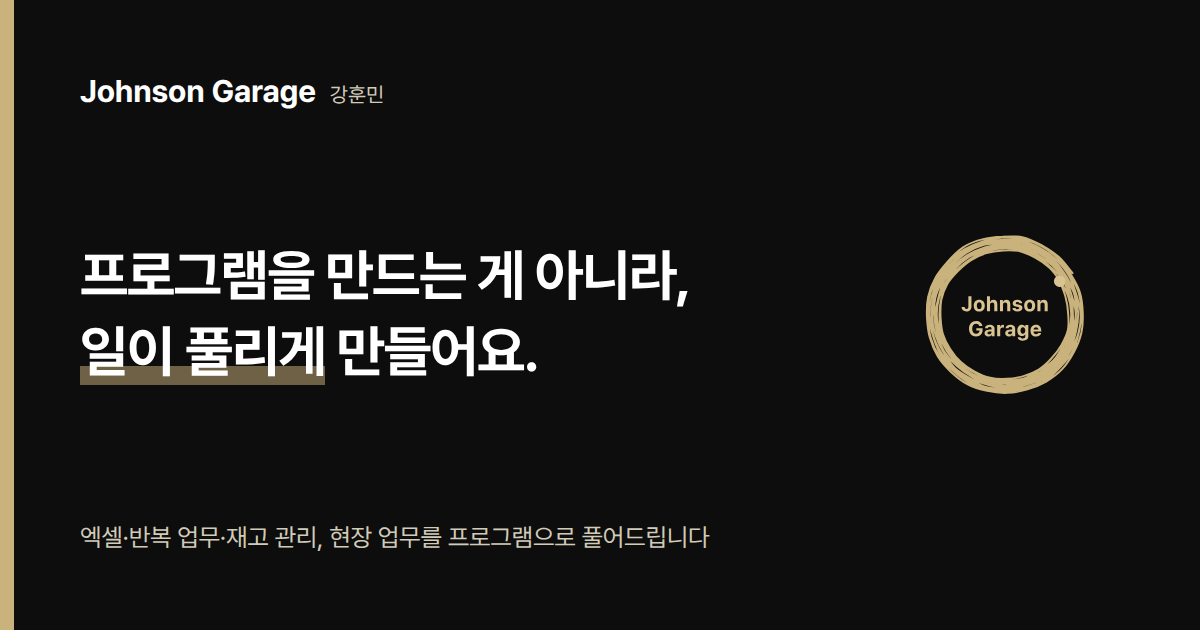
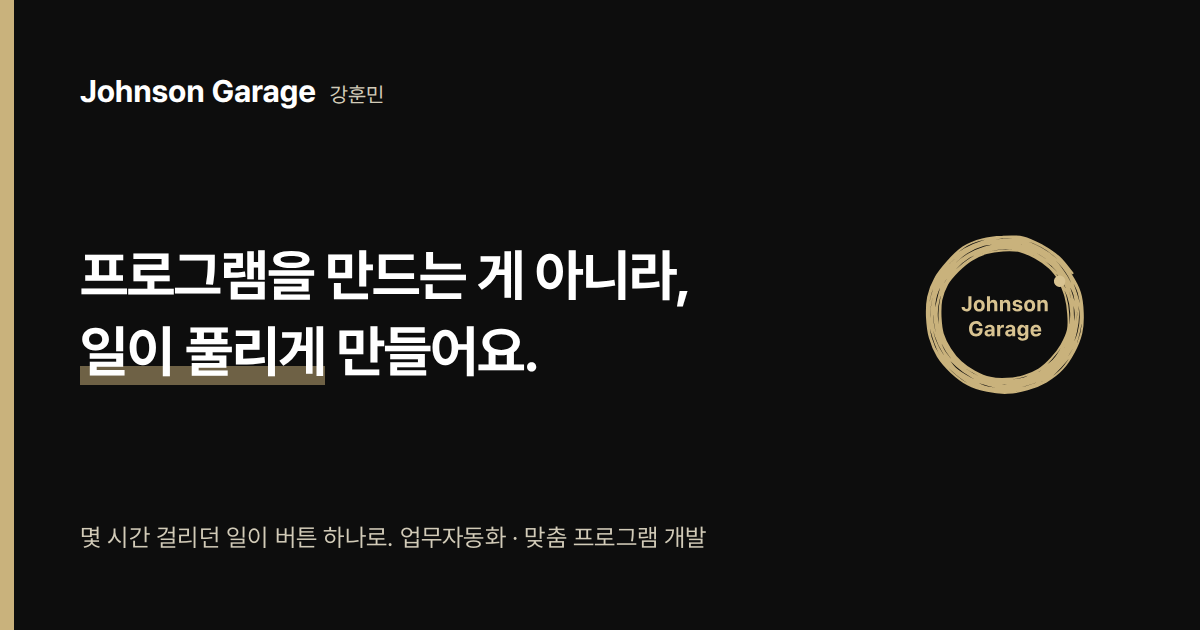
카톡 공유 미리보기 이미지 부제를 명함 문구로 (몇 시간 걸리던 일이 버튼 하나로. 업무자동화 · 맞춤 프로그램 개발), 캐시 회피용 ?v=2
Claude-Session: https://claude.ai/code/session_01D364GFJe8vW1WUdJNr2vnt

Changed region(s): [[0.0617, 0.8143, 0.5858, 0.8746]]

diff --git a/index.html b/index.html
@@ -13,7 +13,7 @@
 <meta property="og:title" content="존슨거라지 Johnson Garage · 강훈민 — 업무자동화 · 맞춤 프로그램 개발">
 <meta property="og:description" content="프로그램을 만드는 게 아니라, 일이 풀리게 만들어요.">
 <meta property="og:type" content="website">
-<meta property="og:image" content="https://johnsongarage.github.io/images/og.png">
+<meta property="og:image" content="https://johnsongarage.github.io/images/og.png?v=2">
 <meta property="og:image:width" content="1200">
 <meta property="og:image:height" content="630">
 <meta name="twitter:card" content="summary_large_image">
@@ -29,7 +29,7 @@
   "alternateName": "Johnson Garage",
   "url": "https://johnsongarage.github.io/",
   "logo": "https://johnsongarage.github.io/logo/johnsongarage-logo-dark.png",
-  "image": "https://johnsongarage.github.io/images/og.png",
+  "image": "https://johnsongarage.github.io/images/og.png?v=2",
   "description": "엑셀·반복 업무·재고 관리 같은 현장 업무를 프로그램으로 풀어드리는 업무자동화·맞춤 프로그램 개발",
   "founder": {"@type": "Person", "name": "강훈민"},
   "telephone": "+82-10-3270-6077",

diff --git a/about/index.html b/about/index.html
@@ -12,7 +12,7 @@
 <meta property="og:title" content="대표 소개 · 강훈민 — 존슨거라지 Johnson Garage">
 <meta property="og:description" content="대용량 데이터 처리와 업무 자동화를 직접 설계하고 끝까지 책임지는 풀스택 개발자">
 <meta property="og:type" content="profile">
-<meta property="og:image" content="https://johnsongarage.github.io/images/og.png">
+<meta property="og:image" content="https://johnsongarage.github.io/images/og.png?v=2">
 <meta property="og:image:width" content="1200">
 <meta property="og:image:height" content="630">
 <meta name="twitter:card" content="summary_large_image">
